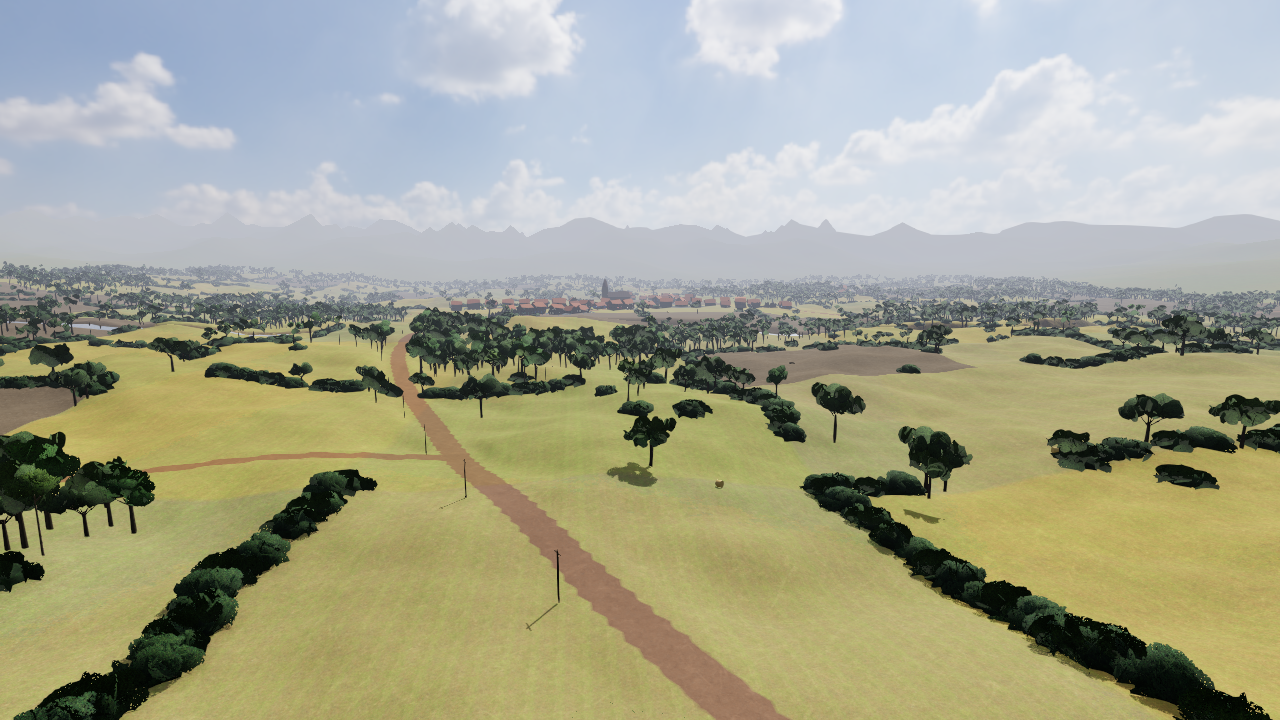
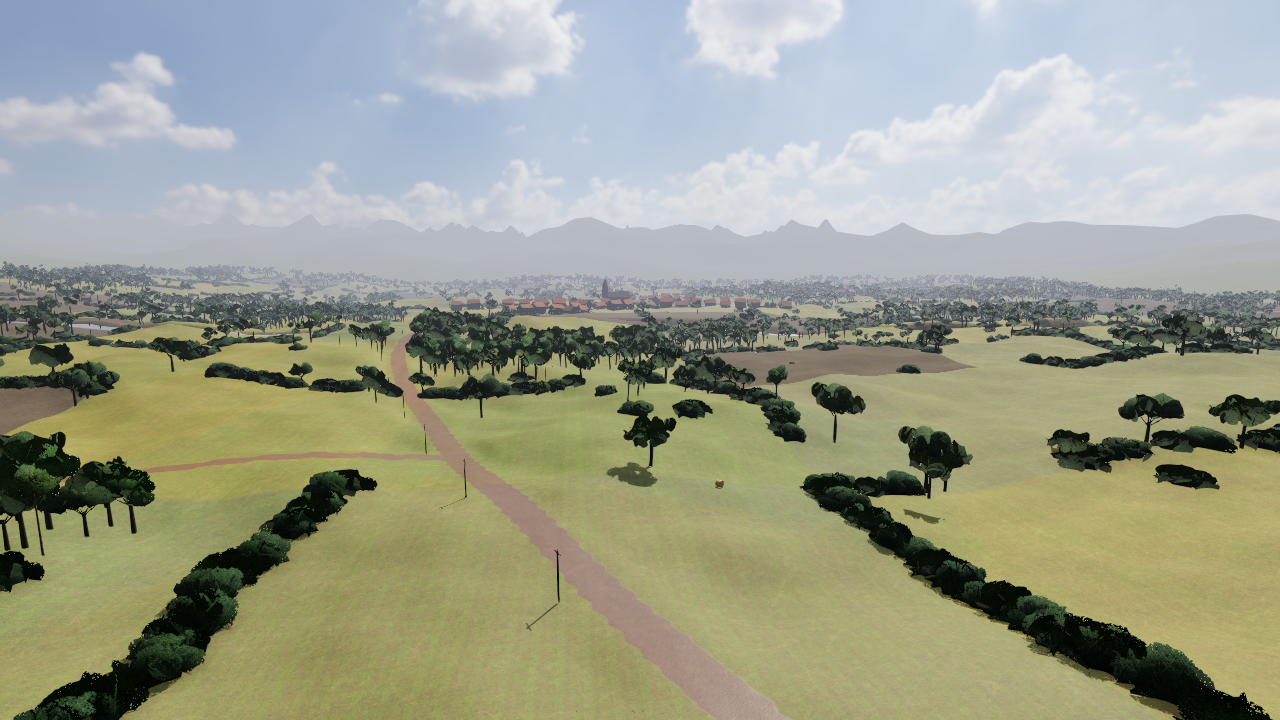
v5 #2: terrain PBR roughness/AO from arm maps, slope bedrock + triplanar cliffs, two-sided translucent foliage & grass, finer grass blades with gusts

Changed region(s): [[0.4062, 0.7028, 0.625, 1.0]]

diff --git a/src/world/world.js b/src/world/world.js
@@ -4,7 +4,7 @@ import { Sky } from 'three/examples/jsm/objects/Sky.js';
 import { MapBuilder } from './mapgen.js';
 import { MAP_BY_ID } from './maps.js';
 import { buildStructures } from './buildings.js';
-import { Vegetation, windUniform } from './vegetation.js';
+import { Vegetation, windUniform, sunU } from './vegetation.js';
 import { Grass } from './grass.js';
 import { pbrTex, waterNormalTexture, setTexQuality } from './textures.js';
 import { RGBELoader } from 'three/examples/jsm/loaders/RGBELoader.js';
@@ -17,14 +17,15 @@ function terrainMaterial(def) {
   const U = {
     tA: { value: pbrTex(L.A, 'diff') }, tB: { value: pbrTex(L.B, 'diff') }, tC: { value: pbrTex(L.C, 'diff') }, tD: { value: pbrTex(L.D, 'diff') },
     nA: { value: pbrTex(L.A, 'nor') }, nB: { value: pbrTex(L.B, 'nor') }, nC: { value: pbrTex(L.C, 'nor') }, nD: { value: pbrTex(L.D, 'nor') },
+    aA: { value: pbrTex(L.A, 'arm') }, aB: { value: pbrTex(L.B, 'arm') }, aC: { value: pbrTex(L.C, 'arm') }, aD: { value: pbrTex(L.D, 'arm') },
     tintA: { value: new THREE.Vector3(...L.tintA) }, tintB: { value: new THREE.Vector3(...L.tintB) },
   };
   m.onBeforeCompile = (sh) => {
     Object.assign(sh.uniforms, U);
-    sh.vertexShader = sh.vertexShader.replace('#include <common>', '#include <common>\nattribute vec4 splat; varying vec4 vSplat; varying vec3 vWP;')
-      .replace('#include <begin_vertex>', '#include <begin_vertex>\nvSplat = splat; vWP = (modelMatrix * vec4(transformed, 1.0)).xyz;');
+    sh.vertexShader = sh.vertexShader.replace('#include <common>', '#include <common>\nattribute vec4 splat; varying vec4 vSplat; varying vec3 vWP; varying vec3 vWN;')
+      .replace('#include <begin_vertex>', '#include <begin_vertex>\nvSplat = splat; vWP = (modelMatrix * vec4(transformed, 1.0)).xyz; vWN = normalize(mat3(modelMatrix) * objectNormal);');
     sh.fragmentShader = sh.fragmentShader.replace('#include <common>', `#include <common>
-      uniform sampler2D tA, tB, tC, tD, nA, nB, nC, nD; uniform vec3 tintA, tintB; varying vec4 vSplat; varying vec3 vWP;
+      uniform sampler2D tA, tB, tC, tD, nA, nB, nC, nD, aA, aB, aC, aD; uniform vec3 tintA, tintB; varying vec4 vSplat; varying vec3 vWP; varying vec3 vWN; float tAO = 1.0;
       vec3 sampleL(sampler2D t, vec2 uv, float far) { vec3 a = texture2D(t, uv).rgb; vec3 b = texture2D(t, uv * 0.173).rgb; return mix(a, (a + b) * 0.5, far); }`)
       .replace('#include <map_fragment>', `
         float camD = length(vWP - cameraPosition); float far = smoothstep(25.0, 140.0, camD);
@@ -33,12 +34,18 @@ function terrainMaterial(def) {
         // macro breakup so layer borders are not smooth gradients
         float br = texture2D(tC, vWP.xz / 41.0).r; float br2 = texture2D(tA, vWP.xz / 133.0).g;
         w.y *= 0.55 + br * 0.9; w.x *= 0.8 + br2 * 0.4;
+        // v5: steep slopes expose bedrock regardless of the painted splat
+        vec3 wn = normalize(vWN); float steep = smoothstep(0.28, 0.55, 1.0 - wn.y); w.z += steep * 2.5 * (1.0 - w.w); w.xy *= 1.0 - steep * 0.85;
         vec3 cA = sampleL(tA, uv, far) * tintA, cB = sampleL(tB, uv * 1.1, far) * tintB, cC = sampleL(tC, uvr, far), cD = sampleL(tD, uvd, far);
+        vec3 bw = pow(abs(wn), vec3(4.0)); bw /= (bw.x + bw.y + bw.z);
+        if (steep > 0.01) { cC = texture2D(tC, vWP.zy / 6.0).rgb * bw.x + cC * bw.y + texture2D(tC, vWP.xy / 6.0).rgb * bw.z; }
+        vec3 rA = texture2D(aA, uv).rgb, rB = texture2D(aB, uv * 1.1).rgb, rC = texture2D(aC, uvr).rgb, rD = texture2D(aD, uvd).rgb;
         // height blending: each texture's luminance acts as its height map, giving natural interlocking transitions
         vec4 hgt = vec4(dot(cA, vec3(0.33)), dot(cB, vec3(0.33)), dot(cC, vec3(0.33)), dot(cD, vec3(0.33))) * 0.6 + w * 1.4;
         float hmax = max(max(hgt.x, hgt.y), max(hgt.z, hgt.w)) - 0.18;
         vec4 hb = max(hgt - hmax, 0.0) * step(0.001, w); w = hb / (hb.x + hb.y + hb.z + hb.w + 1e-4);
         vec3 col = cA * w.x + cB * w.y + cC * w.z + cD * w.w;
+        float tRough = mix(0.72, 1.0, clamp(rA.g * w.x + rB.g * w.y + rC.g * w.z + rD.g * w.w, 0.0, 1.0)); tAO = mix(rA.r * w.x + rB.r * w.y + rC.r * w.z + rD.r * w.w, 1.0, far * 0.8);
         col *= 0.82 + 0.36 * texture2D(tB, vWP.xz / 97.0).g;
         col *= mix(0.92, 1.06, smoothstep(0.2, 0.8, texture2D(tA, vWP.xz / 260.0).r));
         // v4 patchwork: large irregular parcels (fields / meadows / dry patches) tint the ground layer differently
@@ -49,6 +56,8 @@ function terrainMaterial(def) {
           col *= mix(vec3(1.0), pt, w.x * 0.85);
         }
         diffuseColor.rgb *= col;`)
+      .replace('#include <roughnessmap_fragment>', 'float roughnessFactor = mix(tRough, 0.95, far * 0.5);')
+      .replace('#include <aomap_fragment>', 'reflectedLight.indirectDiffuse *= tAO; reflectedLight.indirectSpecular *= tAO * tAO; reflectedLight.directDiffuse *= mix(1.0, tAO, 0.5);')
       .replace('#include <normal_fragment_maps>', `
         {
           vec3 nm = (texture2D(nA, uv).xyz * w.x + texture2D(nB, uv * 1.1).xyz * w.y + texture2D(nC, uvr).xyz * w.z + texture2D(nD, uvd).xyz * w.w) * 2.0 - 1.0;
@@ -58,7 +67,7 @@ function terrainMaterial(def) {
           normal = normalize(T * nm.x + Bt * nm.y + normal * nm.z);
         }`);
   };
-  m.customProgramCacheKey = () => 'terrain4';
+  m.customProgramCacheKey = () => 'terrain5';
   return m;
 }
 
@@ -155,6 +164,7 @@ export class World {
     Object.assign(sun.shadow.camera, { left: -S, right: S, top: S, bottom: -S, near: 10, far: 800 });
     sun.shadow.bias = -0.00025; sun.shadow.normalBias = this.shadowTexel * 1.6; if (H && H.overcast) sun.shadow.radius = 6; else sun.shadow.radius = 2;
     scene.add(sun); scene.add(sun.target); this.sun = sun;
+    sunU.uSunDir.value.copy(this.sunDir); sunU.uSunCol.value.copy(sun.color).multiplyScalar(sun.intensity);
     const hemi = new THREE.HemisphereLight(0xbfd4ff, new THREE.Color(...def.farColor).multiplyScalar(1.2), 0.7); scene.add(hemi); this.hemi = hemi;
     this.hdrLoaded = !H; this.exposure = H ? H.exposure : null;
     if (H) this._loadHdri(renderer, H, quality);

diff --git a/src/world/grass.js b/src/world/grass.js
@@ -3,6 +3,7 @@
 // grass splat layer; no grass on roads, water, buildings or rock. Wind sway in the vertex shader.
 import * as THREE from 'three';
 import { OCC } from './mapgen.js';
+import { foliageShading } from './vegetation.js';
 
 const PRESETS = {
   village: { layer: 0, dens: 1.0, col: [0.62, 0.68, 0.42], col2: [0.8, 0.74, 0.46], h: 0.55 },
@@ -10,10 +11,11 @@ const PRESETS = {
   desert: { layer: 1, dens: 0.16, col: [1.15, 0.95, 0.62], col2: [0.95, 0.8, 0.5], h: 0.45 },
 };
 function bladeTexture() {
-  const W = 128, H = 128; const c = document.createElement('canvas'); c.width = W; c.height = H; const g = c.getContext('2d');
-  for (let i = 0; i < 46; i++) {
-    const x = 6 + Math.random() * (W - 12), h = H * (0.45 + Math.random() * 0.55), lean = (Math.random() - 0.5) * 34, w = 2 + Math.random() * 3;
-    const l = 20 + Math.random() * 22; g.fillStyle = `hsl(${65 + Math.random() * 35},${28 + Math.random() * 22}%,${l}%)`;
+  const W = 256, H = 256; const c = document.createElement('canvas'); c.width = W; c.height = H; const g = c.getContext('2d');
+  for (let i = 0; i < 90; i++) {
+    const x = 10 + Math.random() * (W - 20), h = H * (0.4 + Math.random() * 0.6), lean = (Math.random() - 0.5) * 70, w = 2.5 + Math.random() * 4;
+    const l = 26 + Math.random() * 22; const hue = 68 + Math.random() * 34, sat = 30 + Math.random() * 25;
+    const gr = g.createLinearGradient(0, H, 0, H - h); gr.addColorStop(0, `hsl(${hue},${sat}%,${l * 0.6}%)`); gr.addColorStop(0.7, `hsl(${hue},${sat}%,${l}%)`); gr.addColorStop(1, `hsl(${hue - 12},${sat * 0.7}%,${l * 1.15}%)`); g.fillStyle = gr;
     g.beginPath(); g.moveTo(x - w, H); g.quadraticCurveTo(x + lean * 0.3, H - h * 0.6, x + lean, H - h); g.quadraticCurveTo(x + lean * 0.3 + w * 0.3, H - h * 0.6, x + w, H); g.fill();
   }
   const t = new THREE.CanvasTexture(c); t.colorSpace = THREE.SRGBColorSpace; t.generateMipmaps = true; t.minFilter = THREE.LinearMipmapLinearFilter; return t;
@@ -39,9 +41,12 @@ export class Grass {
           vec3 ip = instanceMatrix[3].xyz; float ph = ip.x * 0.31 + ip.z * 0.23;
           float d = length(ip.xz - cameraPosition.xz); float fade = 1.0 - smoothstep(uR * 0.7, uR, d);
           transformed.y *= fade;
-          transformed.x += sin(uWind * 2.1 + ph) * 0.12 * position.y; transformed.z += cos(uWind * 1.7 + ph) * 0.08 * position.y;`);
+          float gust = 0.6 + 0.4 * sin(uWind * 0.35 + ip.x * 0.02 + ip.z * 0.015);
+          transformed.x += sin(uWind * 2.1 + ph) * 0.13 * position.y * position.y * gust; transformed.z += cos(uWind * 1.7 + ph) * 0.09 * position.y * position.y * gust;`);
+      sh.fragmentShader = sh.fragmentShader.replace('#include <map_fragment>', '#include <map_fragment>\n diffuseColor.rgb *= mix(0.42, 1.08, smoothstep(0.0, 0.8, vMapUv.y));');
+      foliageShading(sh, 0.06, 0.6, 'vMapUv.y');
     };
-    mat.customProgramCacheKey = () => 'grass';
+    mat.customProgramCacheKey = () => 'grass5';
     const max = Math.ceil((Math.PI * R * R) / (this.spacing * this.spacing) * 1.05);
     this.mesh = new THREE.InstancedMesh(geo, mat, max); this.mesh.count = 0; this.mesh.frustumCulled = false; this.mesh.receiveShadow = true; this.mesh.castShadow = false;
     this.colors = new THREE.InstancedBufferAttribute(new Float32Array(max * 3), 3); this.mesh.instanceColor = this.colors;

diff --git a/src/world/vegetation.js b/src/world/vegetation.js
@@ -8,6 +8,18 @@ import { RNG } from '../util.js';
 
 export const windUniform = { value: 0 };
 export function setWindTime(t) { windUniform.value = t; }
+// v5: shared sun uniforms for leaf/blade translucency (set by World)
+export const sunU = { uSunDir: { value: new THREE.Vector3(0, 1, 0) }, uSunCol: { value: new THREE.Color(3, 3, 3) } };
+// two-sided foliage lighting: keep the (spherical / up) normals on back faces instead of flipping them, and add
+// sub-surface translucency when looking towards the sun through leaves.
+export function foliageShading(sh, base = 0.05, back = 0.45, tipExpr = '1.0') {
+  Object.assign(sh.uniforms, sunU);
+  sh.fragmentShader = sh.fragmentShader.replace('#include <common>', '#include <common>\nuniform vec3 uSunDir; uniform vec3 uSunCol;')
+    .replace('#include <normal_fragment_begin>', '#include <normal_fragment_begin>\n normal = normalize(vNormal);')
+    .replace('#include <lights_fragment_end>', `#include <lights_fragment_end>
+      { vec3 Lv = normalize((viewMatrix * vec4(uSunDir, 0.0)).xyz); float tr = pow(max(dot(-normalize(vViewPosition), Lv), 0.0), 4.0);
+        reflectedLight.directDiffuse += diffuseColor.rgb * uSunCol * (${base.toFixed(3)} + ${back.toFixed(3)} * tr) * (${tipExpr}); }`);
+}
 
 function foliageMaterial(tex, color = 0xffffff, sway = 1) {
   const m = new THREE.MeshStandardMaterial({ map: tex, alphaTest: 0.45, side: THREE.DoubleSide, roughness: 0.85, metalness: 0, color });
@@ -23,8 +35,9 @@ function foliageMaterial(tex, color = 0xffffff, sway = 1) {
         float ph = ip.x * 0.07 + ip.z * 0.05;
         transformed.x += sin(uWind * 1.3 + ph + position.y * 0.3) * 0.012 * hgt * ${sway.toFixed(2)};
         transformed.z += cos(uWind * 1.1 + ph * 1.3) * 0.009 * hgt * ${sway.toFixed(2)};`);
+    foliageShading(sh, 0.04, 0.5);
   };
-  m.customProgramCacheKey = () => 'foliage' + sway;
+  m.customProgramCacheKey = () => 'foliage5' + sway;
   return m;
 }
 

diff --git a/src/world/maps.js b/src/world/maps.js
@@ -11,8 +11,8 @@ export const MAPS = [
     desc: 'Rolling bocage farmland cut by a river, with a stone village and church at its heart. Dense hedgerows give superb concealment; three bridges and a ford are the key crossings.',
     seed: 1944, playHalf: 600, terrainHalf: 700,
     sun: { elevation: 48, azimuth: 205 }, turbidity: 3.5, rayleigh: 1.4, fog: { color: 0xbcc8d2, density: 0.0011 }, exposure: 0.62,
-    hdri: { file: 'kloofendal_48d_partly_cloudy_puresky', sunDir: [0.555, 0.742, 0.377], sunE: [4.35, 4.38, 3.98], horizon: [0.445, 0.479, 0.582], exposure: 1.0, fogDensity: 0.0009 },
-    layers: { A: 'leafy_grass', B: 'forest_ground_04', C: 'aerial_rocks_02', D: 'gravel_road', tintA: [0.8, 0.93, 0.62], tintB: [0.9, 0.85, 0.75] },
+    hdri: { file: 'kloofendal_48d_partly_cloudy_puresky', sunDir: [0.555, 0.742, 0.377], sunE: [4.35, 4.38, 3.98], horizon: [0.445, 0.479, 0.582], exposure: 0.82, fogDensity: 0.0009 },
+    layers: { A: 'leafy_grass', B: 'forest_ground_04', C: 'aerial_rocks_02', D: 'gravel_road', tintA: [0.64, 0.86, 0.52], tintB: [0.9, 0.85, 0.75] },
     farColor: [0.36, 0.42, 0.26],
     generate(mb) {
       const r = mb.rng;
